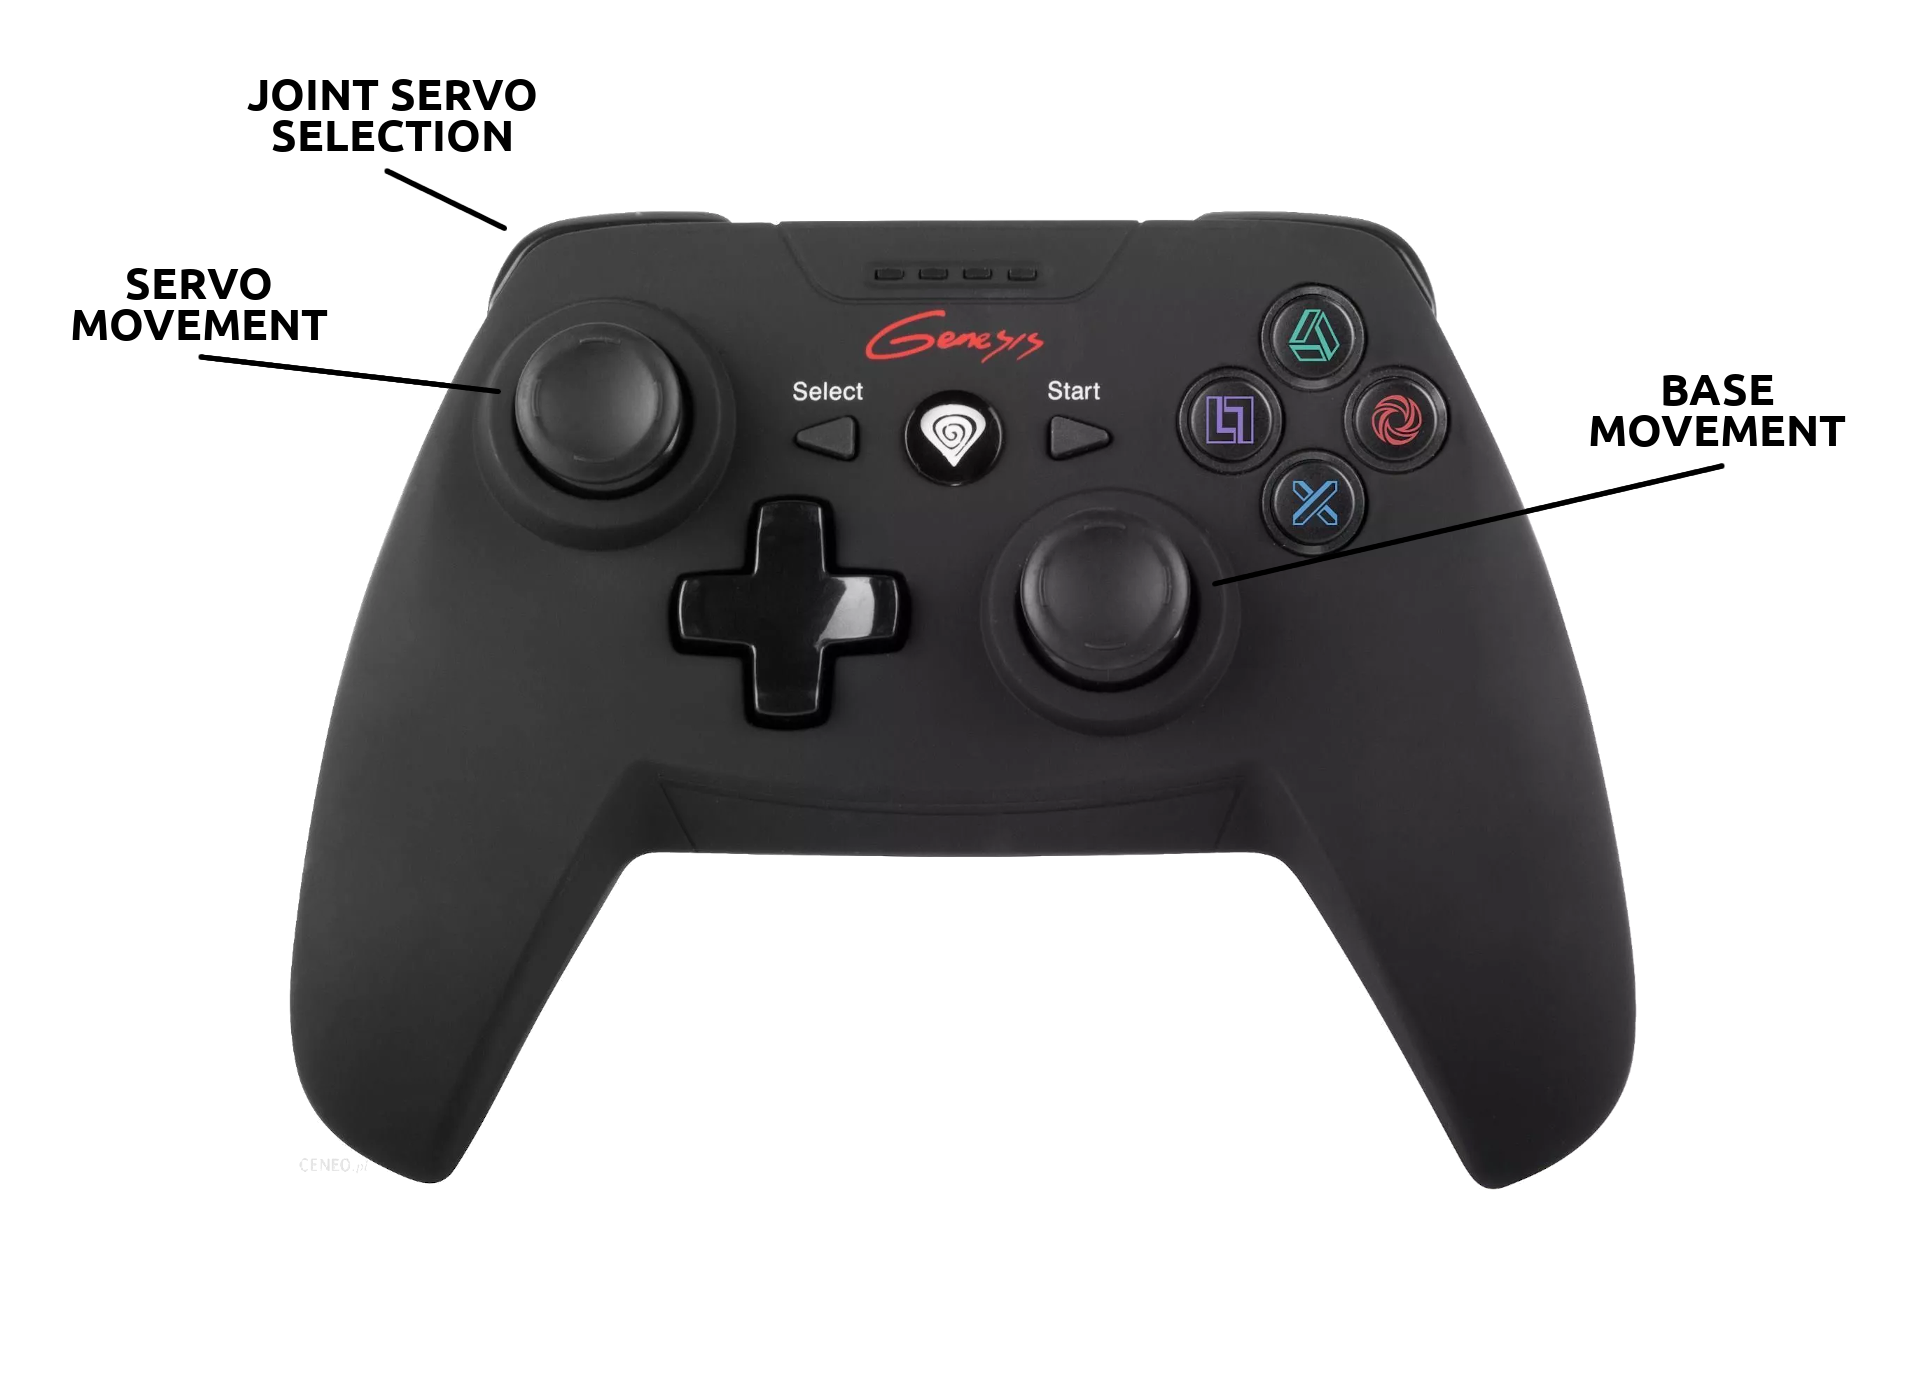
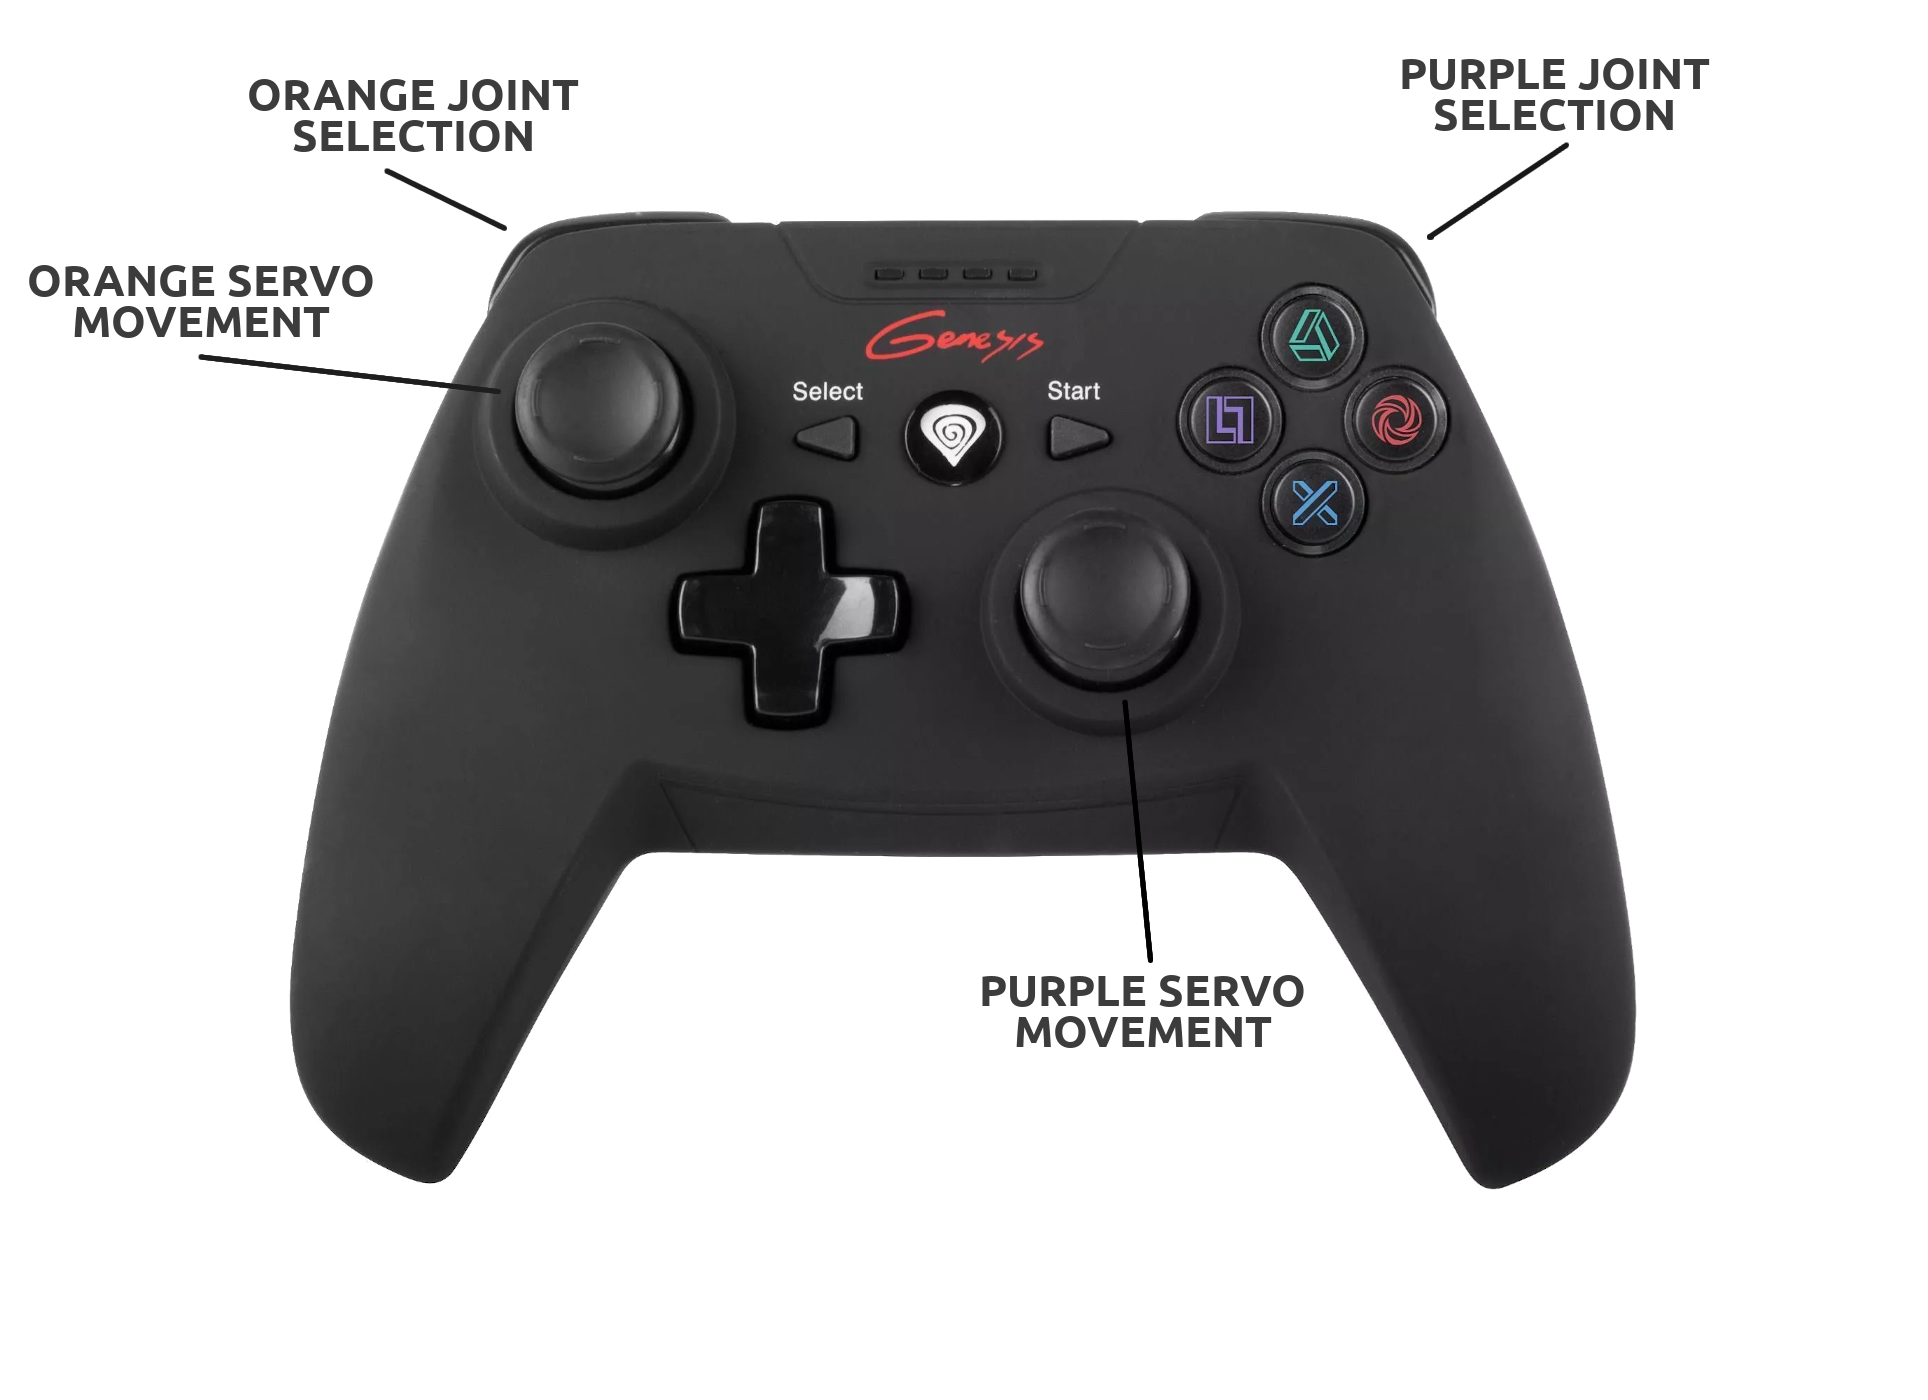
Servo can be now selected with both right and left trigger and bumper.

diff --git a/library/servo_controller/private/ServoController.cpp b/library/servo_controller/private/ServoController.cpp
@@ -47,6 +47,17 @@ void ServoController::setStartupPosition()
 
 void ServoController::setAbsolutePosition(int position, int servo_num, int step = 1)
 {
+    if (servo_num == 5)
+    {
+        if (position >= 2300)
+        {
+            return;
+        } 
+        else if (position <= 780)
+        {
+            return;
+        }
+    }
     std::cout << "Moving servo number: " << servo_num << " to position: " << position << ". Step: " << step << "." << std::endl;
     std::uint16_t current_position = m_current_position[servo_num];
     while (current_position != position)
